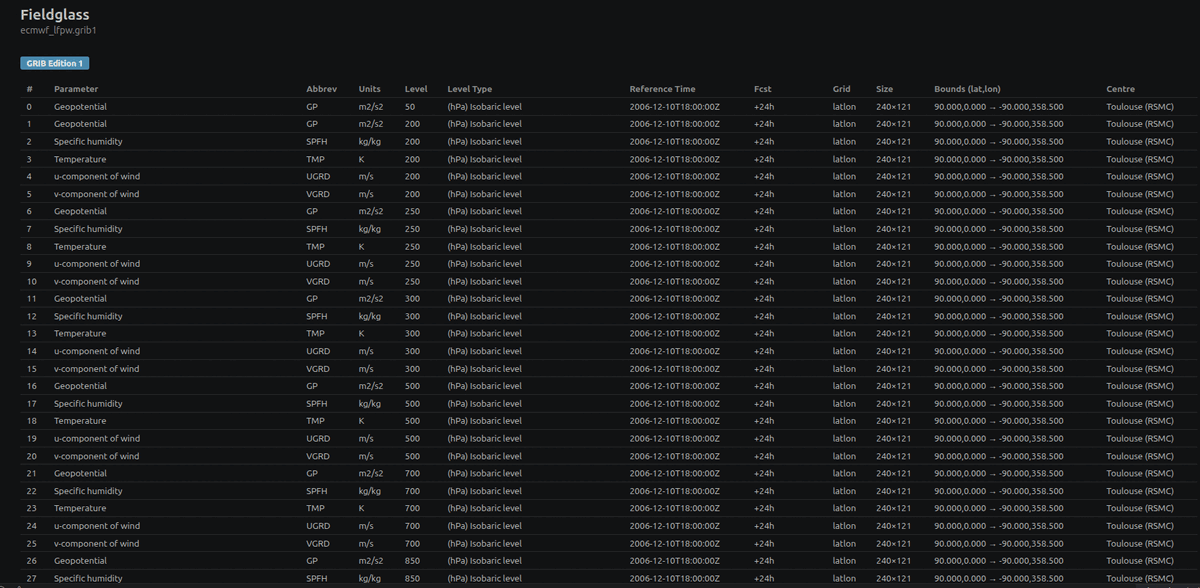
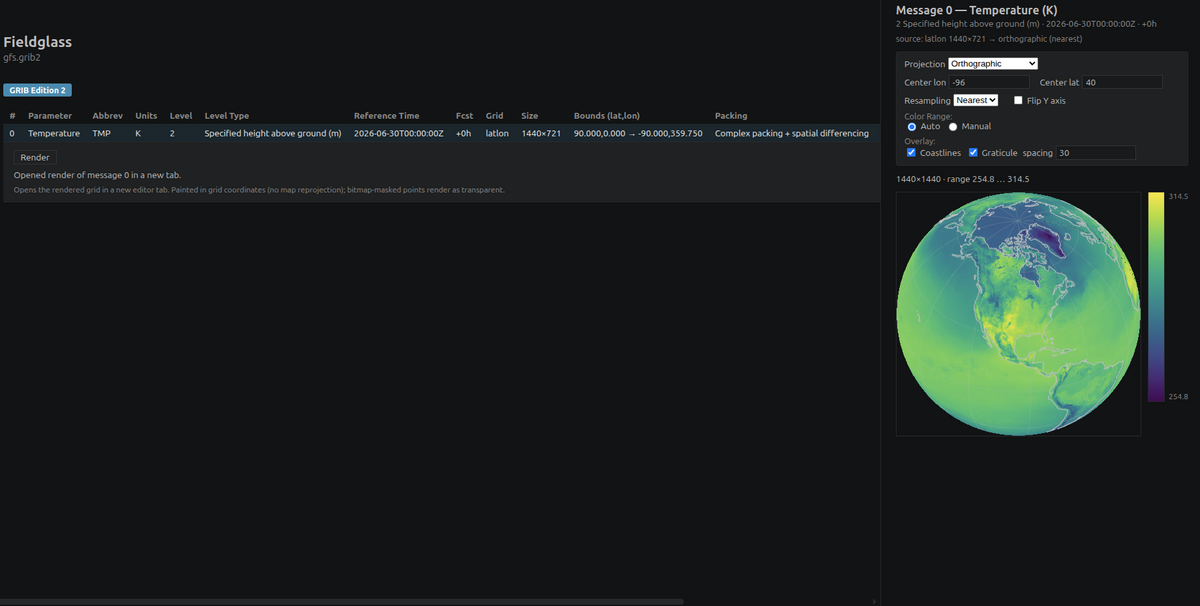
docs: refresh the Marketplace screenshot
New screenshot shows a GFS temperature field reprojected onto the
orthographic globe with coastlines; the README alt text follows.

Part of #125.

diff --git a/README.md b/README.md
@@ -6,7 +6,7 @@
 
 A Visual Studio Code extension for viewing meteorological data files (GRIB1, GRIB2, and NetCDF) right in the editor. It runs on a native Rust module and needs no extra dependencies to install. Fieldglass bundles a prebuilt binary for each supported platform and selects the right one automatically.
 
-![Fieldglass viewer rendering a multi-message GRIB1 file](extension/media/screenshot.png)
+![Fieldglass rendering a GFS temperature field reprojected onto an orthographic globe with coastlines](extension/media/screenshot.png)
 
 [Latest release](https://github.com/D0ubleD0uble/fieldglass/releases/latest)
 